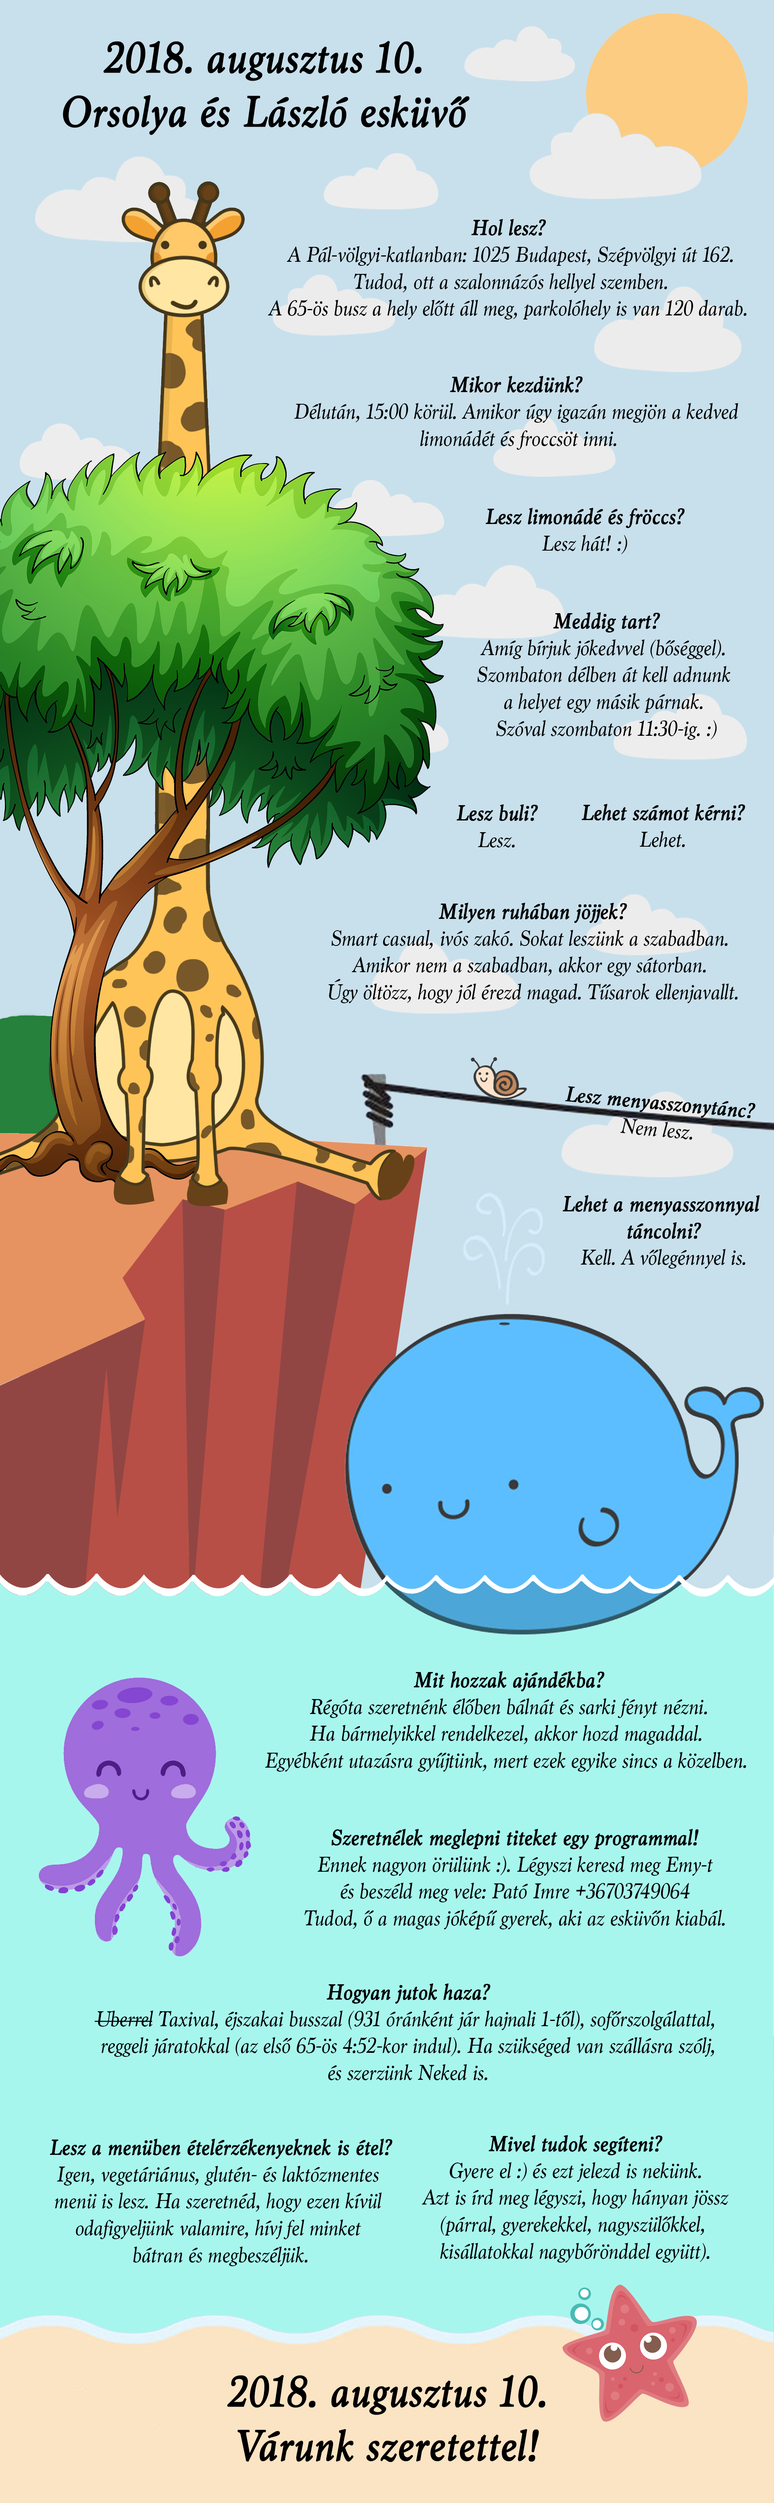
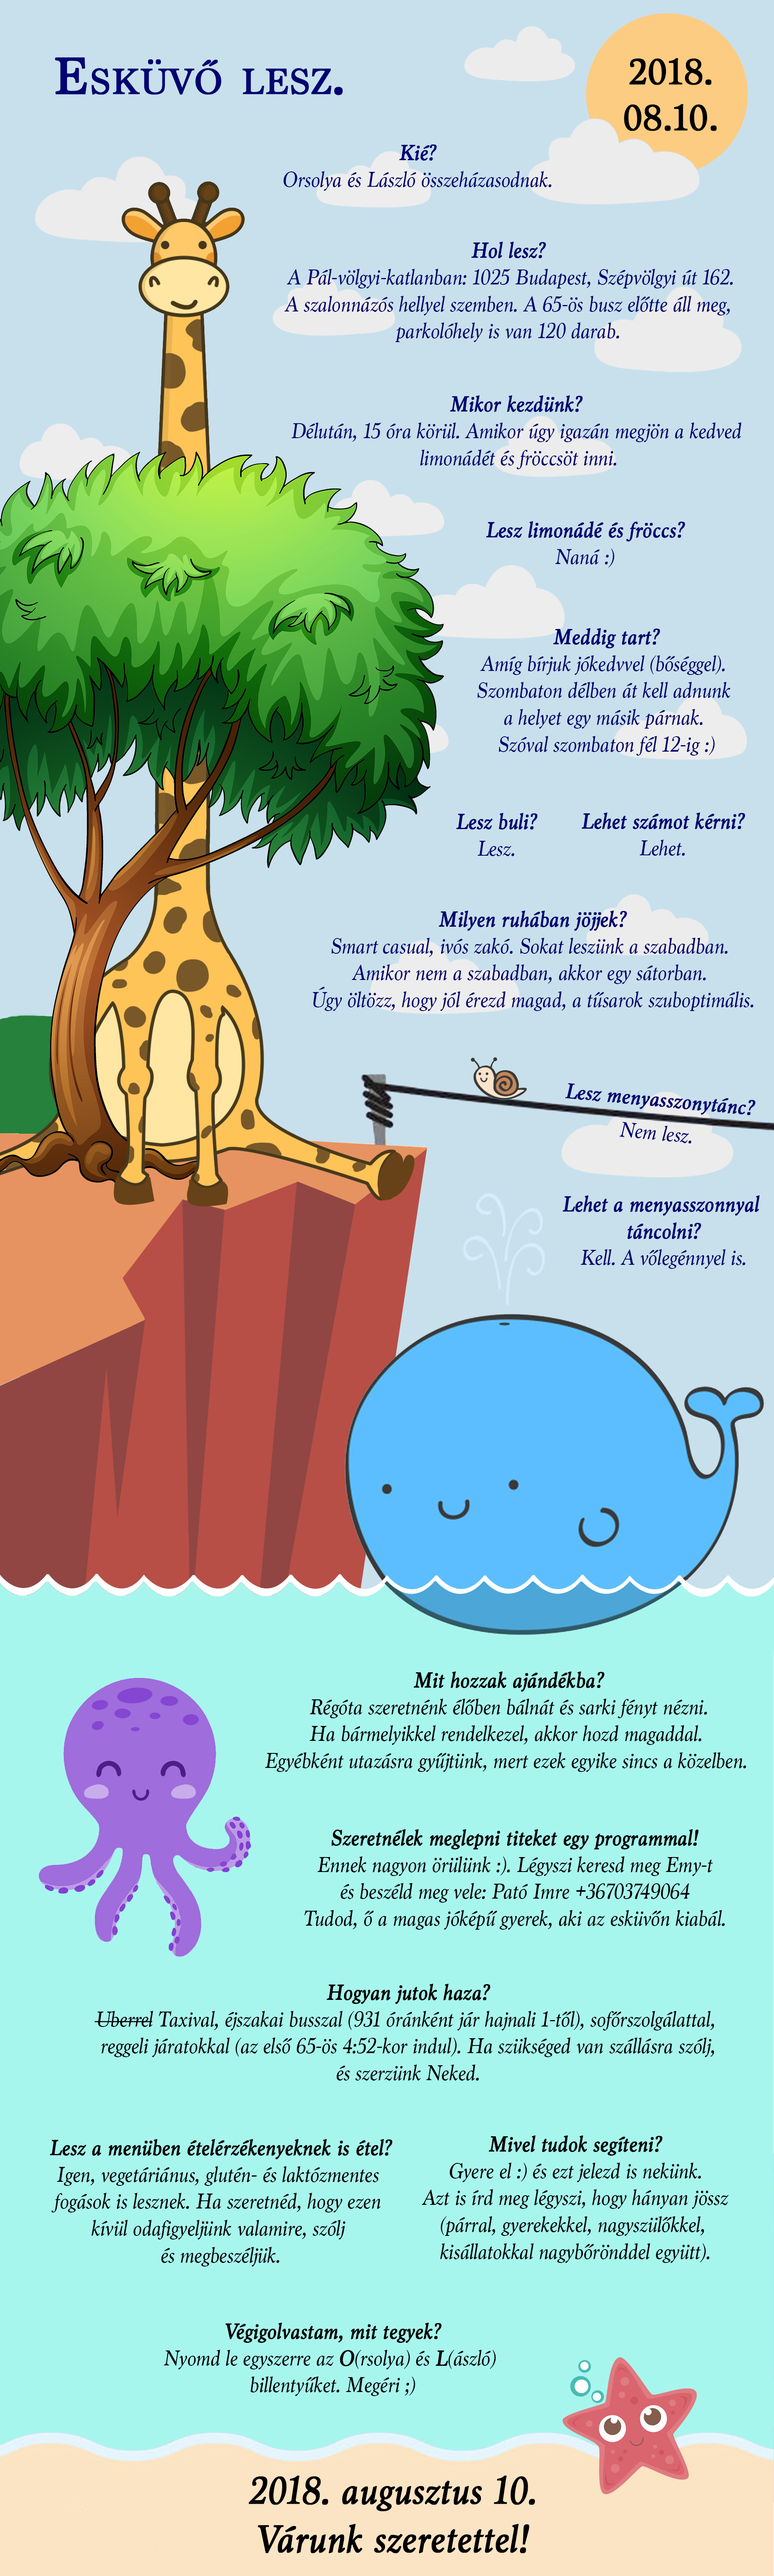
gif and new invitation added

Changed region(s): [[0.0, 0.0, 1.0, 0.9953], [0.8125, 0.0, 0.9375, 0.0622]]

diff --git a/index.html b/index.html
@@ -1,17 +1,53 @@
 <!DOCTYPE html>
 <html>
 <head>
-	<meta name="viewport" content="width=device-width, initial-scale=1">
-	<link rel="stylesheet" href="https://stackpath.bootstrapcdn.com/bootstrap/4.1.1/css/bootstrap.min.css" integrity="sha384-WskhaSGFgHYWDcbwN70/dfYBj47jz9qbsMId/iRN3ewGhXQFZCSftd1LZCfmhktB" crossorigin="anonymous">
+    <meta name="viewport" content="width=device-width, initial-scale=1">
+    <link rel="stylesheet" href="https://stackpath.bootstrapcdn.com/bootstrap/4.1.1/css/bootstrap.min.css" integrity="sha384-WskhaSGFgHYWDcbwN70/dfYBj47jz9qbsMId/iRN3ewGhXQFZCSftd1LZCfmhktB" crossorigin="anonymous">
+    <script src="https://code.jquery.com/jquery-3.3.1.min.js" integrity="sha256-FgpCb/KJQlLNfOu91ta32o/NMZxltwRo8QtmkMRdAu8=" crossorigin="anonymous"></script>
 </head>
 <body>
-	<div>
-		<img src="invitation.png" class="img-fluid" alt="invitation">			
-	</div>
-	<div class="easter">
-		<!–– Don't click me links. ––>
-		<a href="http://bit.ly/2Lx8bjD" style="display: none"></a>
-		<a href="http://bit.ly/2Htq93W" style="display: none"></a>
-	</div>
+    <div>
+        <img src="invitation.png" class="img-fluid" alt="invitation">           
+    </div>
+    <div class="gifContainer" style="display: none">
+        <div class="container text-center">
+            <img src="giraffeewhale.gif" class="img-fluid" alt="invitation">
+        </div>
+    </div>
+    <div class="easter">
+        <!–– Lemon Party Roulette. Rules: One of the links below is a link to the Lemon Party. ––>
+        <a href="http://bit.ly/2Lx8bjD" style="display: none">Not lemon</a>
+        <a href="http://bit.ly/2Htq93W" style="display: none">Lemon</a>
+        <a href="http://bit.ly/2Htq93W" style="display: none">Not Lemon</a>
+        <!–– The End. ––>
+    </div>
 </body>
+
+<script type="text/javascript">
+    var map = { 79: false, 76: false };
+    $(document).keydown(function(e) {
+        if (e.keyCode in map) {
+            map[e.keyCode] = true;
+            if (map[79] && map[76]) {
+                $('.gifContainer').fadeIn();
+                $(document).scrollTop($(document).height());
+            }
+        }
+    }).keyup(function(e) {
+        if (e.keyCode in map) {
+            map[e.keyCode] = false;
+        }
+    });
+</script>
+
+<style type="text/css">
+    body {
+        background-color: #F7E4C7;
+    }
+
+    .gifContainer {
+        padding-bottom: 100px;
+    }
+</style>
+
 </html>
